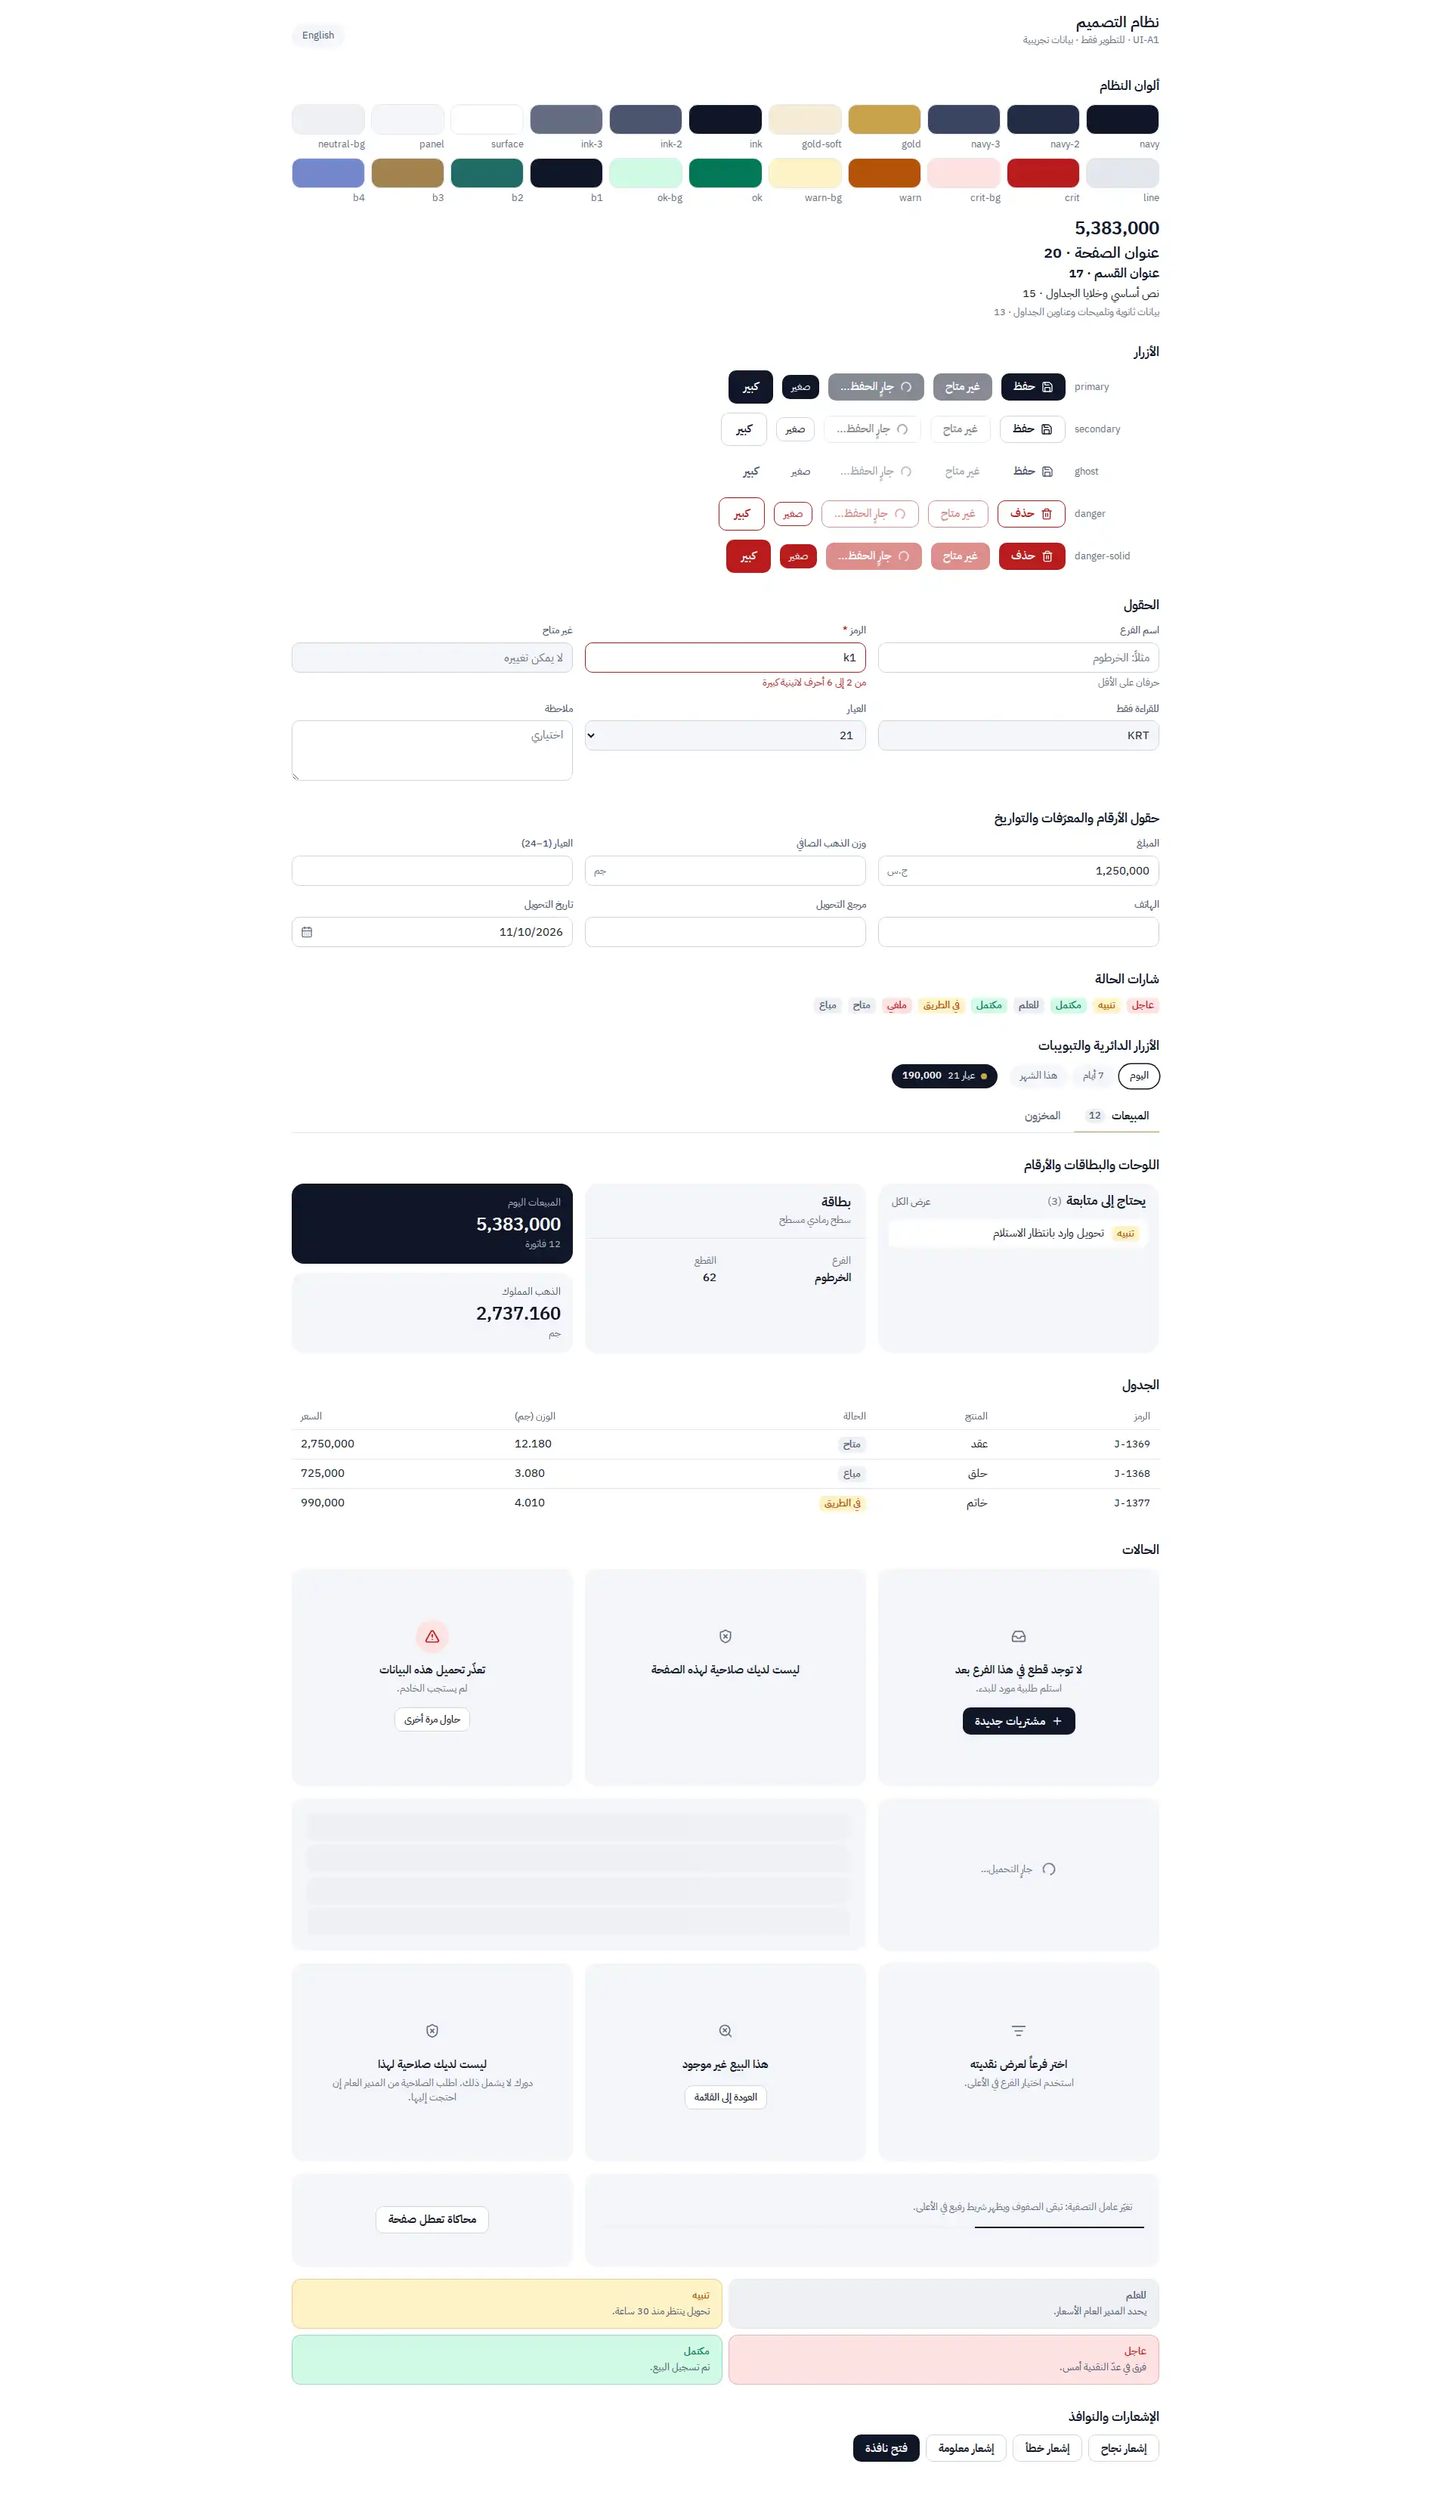
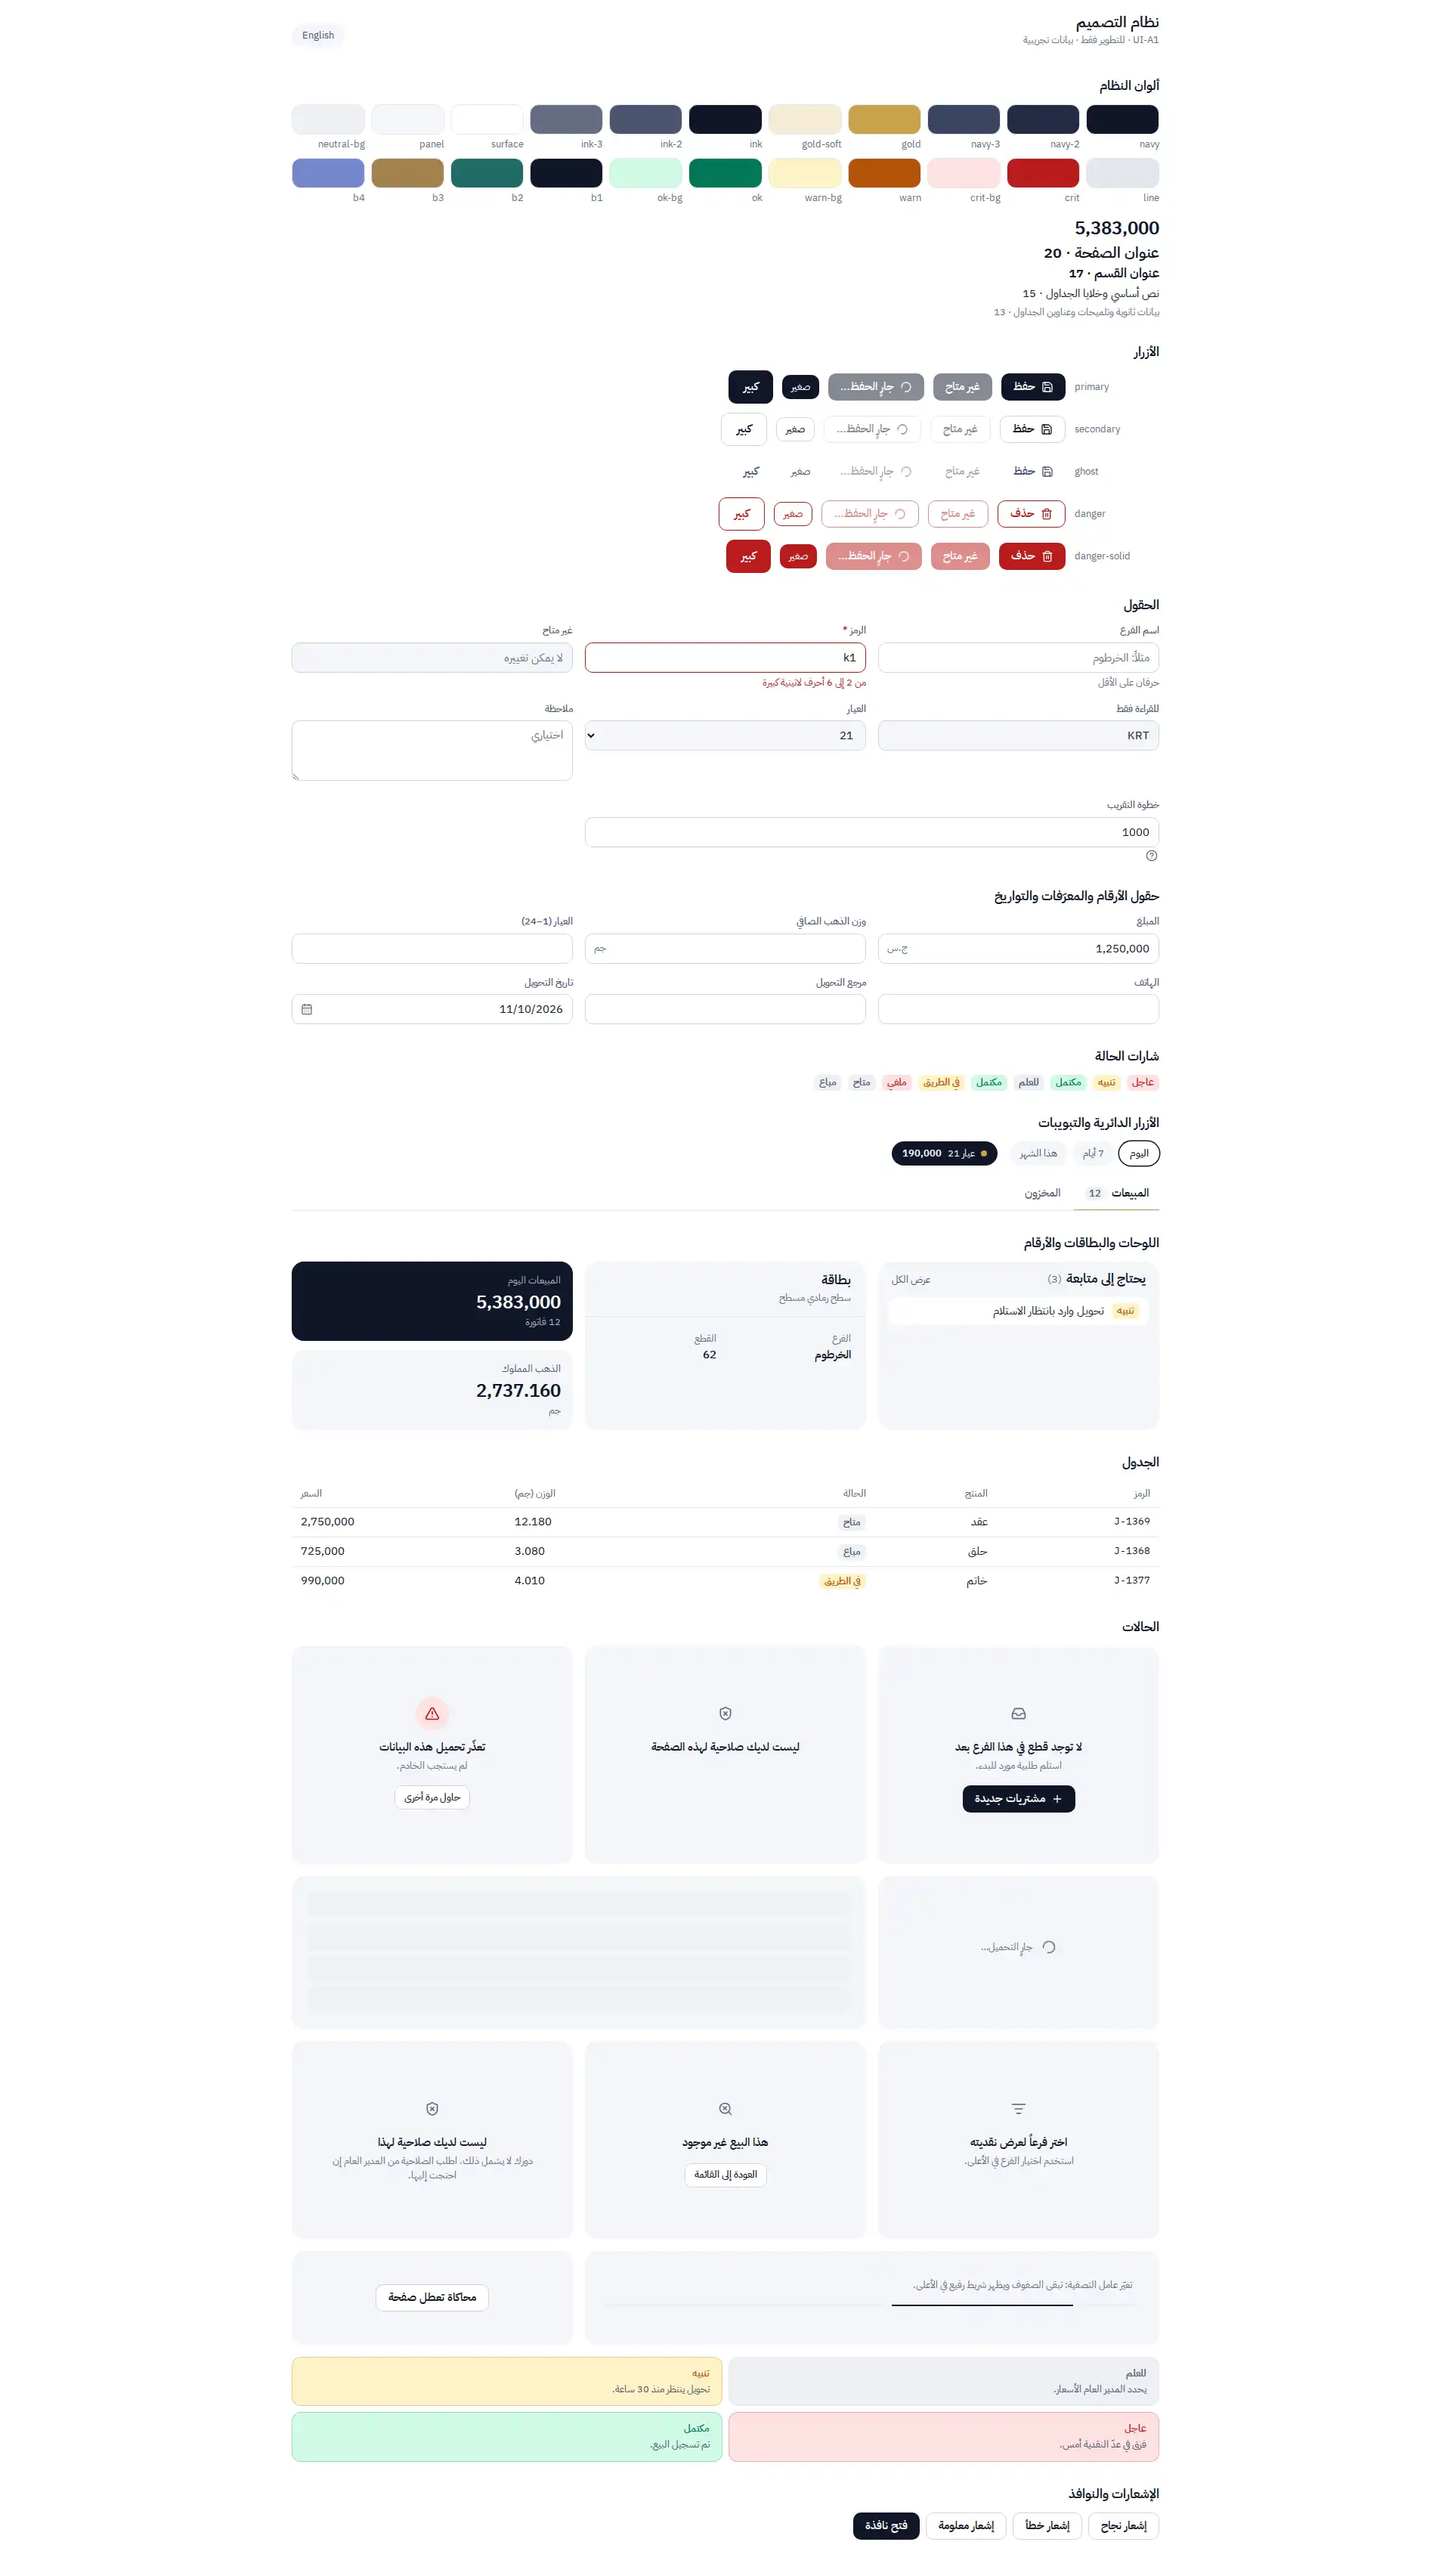
UX-2 c1: a "?" help button for background text (HelpTip), on fields, headers and dialogs
HelpTip is a disclosure, not a hover tooltip, so it works on touch: the button
toggles it, Escape closes only it (not the dialog around it) and returns the
focus, a click outside closes it. Field, PageHeader, CardHeader and Dialog take an
optional `help`; on a field it sits outside the label, so the control's name does
not change. UI kit example and checks (68, was 58); kit screenshots re-saved
because the kit gained the example.

Claude-Session: https://claude.ai/code/session_01KzPLTQZYUEPizxijmNx9gh

diff --git a/frontend/src/components/ui/Layout.tsx b/frontend/src/components/ui/Layout.tsx
@@ -4,16 +4,20 @@
 import type { ReactNode } from 'react';
 import clsx from 'clsx';
 import { karatLabel } from '../../lib/format';
+import { HelpTip } from './HelpTip';
 
 export function Card({ children, className, padded = true }: { children: ReactNode; className?: string; padded?: boolean }) {
   return <div className={clsx('rounded-card bg-panel', padded && 'p-5', className)}>{children}</div>;
 }
 
-export function CardHeader({ title, subtitle, actions, className }: { title: ReactNode; subtitle?: ReactNode; actions?: ReactNode; className?: string }) {
+export function CardHeader({ title, subtitle, help, actions, className }: { title: ReactNode; subtitle?: ReactNode; help?: ReactNode; actions?: ReactNode; className?: string }) {
   return (
     <div className={clsx('flex items-start justify-between gap-4 border-b border-line px-5 py-3.5', className)}>
       <div className="min-w-0">
-        <h3 className="text-section font-semibold text-ink">{title}</h3>
+        <div className="flex items-center gap-1.5">
+          <h3 className="text-section font-semibold text-ink">{title}</h3>
+          {help && <HelpTip>{help}</HelpTip>}
+        </div>
         {subtitle && <p className="mt-0.5 text-meta text-ink-3">{subtitle}</p>}
       </div>
       {actions && <div className="flex shrink-0 items-center gap-2">{actions}</div>}
@@ -21,13 +25,16 @@ export function CardHeader({ title, subtitle, actions, className }: { title: Rea
   );
 }
 
-export function PageHeader({ title, subtitle, actions, breadcrumbs }: { title: ReactNode; subtitle?: ReactNode; actions?: ReactNode; breadcrumbs?: ReactNode }) {
+export function PageHeader({ title, subtitle, help, actions, breadcrumbs }: { title: ReactNode; subtitle?: ReactNode; help?: ReactNode; actions?: ReactNode; breadcrumbs?: ReactNode }) {
   return (
     <div className="mb-4">
       {breadcrumbs && <div className="mb-2 text-meta text-ink-3">{breadcrumbs}</div>}
       <div className="flex flex-wrap items-end justify-between gap-3">
         <div className="min-w-0">
-          <h1 className="text-title font-semibold text-ink">{title}</h1>
+          <div className="flex items-center gap-1.5">
+            <h1 className="text-title font-semibold text-ink">{title}</h1>
+            {help && <HelpTip>{help}</HelpTip>}
+          </div>
           {subtitle && <p className="mt-0.5 text-meta text-ink-3">{subtitle}</p>}
         </div>
         {actions && <div className="no-print flex flex-wrap items-center gap-2">{actions}</div>}

diff --git a/frontend/src/components/ui/HelpTip.tsx b/frontend/src/components/ui/HelpTip.tsx
@@ -1,0 +1,60 @@
+// "?" help (UX-2): background text that is useful once but not on every visit stays out of the screen and opens from a
+// small round button. A disclosure, not a hover tooltip, so it works on touch: the button toggles it; Enter/Space work
+// as on any button; Escape closes it (and only it, not the dialog around it) and returns focus to the button; a click
+// or tap outside closes it.
+
+import { useEffect, useId, useRef, useState, type ReactNode } from 'react';
+import clsx from 'clsx';
+import { CircleHelp } from 'lucide-react';
+import { translate } from '../../lib/i18n';
+
+export function HelpTip({ children, className }: { children: ReactNode; className?: string }) {
+  const [open, setOpen] = useState(false);
+  const id = useId();
+  const root = useRef<HTMLSpanElement>(null);
+  const button = useRef<HTMLButtonElement>(null);
+  useEffect(() => {
+    if (!open) return;
+    const outside = (e: PointerEvent) => {
+      if (!root.current?.contains(e.target as Node)) setOpen(false);
+    };
+    document.addEventListener('pointerdown', outside);
+    return () => document.removeEventListener('pointerdown', outside);
+  }, [open]);
+  return (
+    <span
+      ref={root}
+      className={clsx('relative inline-flex shrink-0 align-middle', className)}
+      onKeyDown={(e) => {
+        if (e.key === 'Escape' && open) {
+          // Only the help closes: the dialog it may sit in listens for Escape on the window.
+          e.stopPropagation();
+          setOpen(false);
+          button.current?.focus();
+        }
+      }}
+    >
+      <button
+        ref={button}
+        type="button"
+        aria-label={translate('More information')}
+        aria-expanded={open}
+        aria-controls={id}
+        onClick={() => setOpen((o) => !o)}
+        className="inline-flex size-5 items-center justify-center rounded-full text-ink-3 hover:bg-panel hover:text-ink aria-expanded:text-navy"
+        data-testid="help-tip"
+      >
+        <CircleHelp className="size-4" aria-hidden />
+      </button>
+      {open && (
+        <span
+          id={id}
+          className="absolute start-0 top-full z-40 mt-1 block w-72 max-w-[80vw] rounded-control bg-navy px-3 py-2 text-meta font-normal leading-relaxed text-white shadow-pop"
+          data-testid="help-tip-text"
+        >
+          {children}
+        </span>
+      )}
+    </span>
+  );
+}

diff --git a/frontend/src/components/ui/Field.tsx b/frontend/src/components/ui/Field.tsx
@@ -1,5 +1,6 @@
 // Form controls (UI-A1): 40 px high, radius 10, white on any surface. Focus shows the global ring (index.css);
 // an invalid control (aria-invalid) gets a critical border. `Field` ties its label, hint and error to the control.
+// UX-2: `help` puts background text behind a "?" beside the label (outside the label, so the control's name is unchanged).
 
 import {
   Children,
@@ -14,6 +15,7 @@ import {
   type TextareaHTMLAttributes,
 } from 'react';
 import clsx from 'clsx';
+import { HelpTip } from './HelpTip';
 
 const hasWidth = (c?: string) => !!c && /(^|\s)(w-|min-w-|max-w-|flex-1)/.test(c);
 export const controlClass =
@@ -45,6 +47,7 @@ export function Select({ className, children, invalid, ...rest }: SelectHTMLAttr
 export function Field({
   label,
   hint,
+  help,
   error,
   required,
   children,
@@ -52,6 +55,7 @@ export function Field({
 }: {
   label: ReactNode;
   hint?: ReactNode;
+  help?: ReactNode;
   error?: ReactNode;
   required?: boolean;
   children: ReactNode;
@@ -69,9 +73,9 @@ export function Field({
           ...(error ? { 'aria-invalid': true } : {}),
         })
       : children;
-  return (
-    <label className={clsx('block', className)}>
-      <span className="mb-1.5 block text-meta font-medium text-ink-2">
+  const field = (
+    <label className={clsx('block', !help && className)}>
+      <span className={clsx('mb-1.5 block text-meta font-medium text-ink-2', help && 'pe-6')}>
         {label}
         {required && (
           <span className="text-crit" aria-hidden>
@@ -91,5 +95,12 @@ export function Field({
         </span>
       )}
     </label>
+  );
+  if (!help) return field;
+  return (
+    <div className={clsx('relative', className)}>
+      {field}
+      <HelpTip className="absolute end-0 top-0">{help}</HelpTip>
+    </div>
   );
 }

diff --git a/frontend/src/components/ui/Dialog.tsx b/frontend/src/components/ui/Dialog.tsx
@@ -7,6 +7,7 @@ import { useEffect, useId, useRef, type ReactNode } from 'react';
 import clsx from 'clsx';
 import { X } from 'lucide-react';
 import { translate } from '../../lib/i18n';
+import { HelpTip } from './HelpTip';
 
 const openDialogs: object[] = [];
 const FOCUSABLE = 'a[href],button:not([disabled]),input:not([disabled]):not([type=hidden]),select:not([disabled]),textarea:not([disabled]),[tabindex]:not([tabindex="-1"])';
@@ -17,6 +18,7 @@ export function Dialog({
   onClose,
   title,
   subtitle,
+  help,
   children,
   footer,
   size,
@@ -26,6 +28,8 @@ export function Dialog({
   onClose: () => void;
   title: ReactNode;
   subtitle?: ReactNode;
+  /** UX-2: background text behind a "?" beside the title. */
+  help?: ReactNode;
   children: ReactNode;
   footer?: ReactNode;
   size?: keyof typeof SIZE;
@@ -86,9 +90,12 @@ export function Dialog({
       <div ref={ref} role="dialog" aria-modal="true" aria-labelledby={titleId} className={clsx('w-full rounded-panel bg-surface shadow-pop', size ? SIZE[size] : width)}>
         <div className="flex items-start justify-between gap-4 px-5 pb-3 pt-4">
           <div>
-            <h2 id={titleId} className="text-section font-semibold text-ink">
-              {title}
-            </h2>
+            <div className="flex items-center gap-1.5">
+              <h2 id={titleId} className="text-section font-semibold text-ink">
+                {title}
+              </h2>
+              {help && <HelpTip>{help}</HelpTip>}
+            </div>
             {subtitle && <p className="mt-0.5 text-meta text-ink-3">{subtitle}</p>}
           </div>
           <button onClick={onClose} className="rounded-control p-1.5 text-ink-3 hover:bg-panel hover:text-ink" aria-label={translate('Close')}>

diff --git a/frontend/src/dev/UiKitPage.tsx b/frontend/src/dev/UiKitPage.tsx
@@ -165,6 +165,9 @@ export default function UiKitPage() {
           <Field label={tx('Note', 'ملاحظة')}>
             <Textarea placeholder={tx('Optional', 'اختياري')} />
           </Field>
+          <Field label={tx('Rounding step', 'خطوة التقريب')} help={tx('Applied once, after weight × rate.', 'يُطبَّق مرة واحدة بعد الوزن × السعر.')} className="sm:col-span-2">
+            <Input defaultValue="1000" data-testid="kit-help-field" />
+          </Field>
         </div>
       </Section>
 
@@ -353,6 +356,7 @@ export default function UiKitPage() {
         onClose={() => setDialog(false)}
         title={tx('New branch', 'فرع جديد')}
         subtitle={tx('Recorded in the audit log', 'يُسجل في سجل التدقيق')}
+        help={tx('A branch code can never be changed later.', 'لا يمكن تغيير رمز الفرع لاحقاً.')}
         footer={
           <>
             <Button onClick={() => setDialog(false)}>{tx('Cancel', 'إلغاء')}</Button>

diff --git a/frontend/src/components/ui/index.tsx b/frontend/src/components/ui/index.tsx
@@ -6,6 +6,7 @@ export { Field, Input, Select, Textarea, controlClass } from './Field';
 export { Badge, StatusBadge, statusTone, type Tone } from './Badge';
 export { Alert, Empty, ErrorState, Loading, Skeleton, SkeletonRows, Spinner } from './States';
 export { Dialog } from './Dialog';
+export { HelpTip } from './HelpTip';
 export { Table, TD, TH, THead, TR } from './Table';
 export { Pill, PillGroup } from './Pill';
 export { Panel, PanelHeader } from './Panel';

diff --git a/frontend/src/lib/i18n-ar.ts b/frontend/src/lib/i18n-ar.ts
@@ -2128,4 +2128,7 @@ export const AR: Record<string, string> = {
   "{change}% from the current rate": "{change}% عن السعر الحالي",
   "needs a reason": "يحتاج إلى سبب",
   "needs a reason and your password": "يحتاج إلى سبب وكلمة المرور",
+
+  // UX-2: less text on screen; background behind a "?"
+  'More information': 'مزيد من المعلومات',
 };
